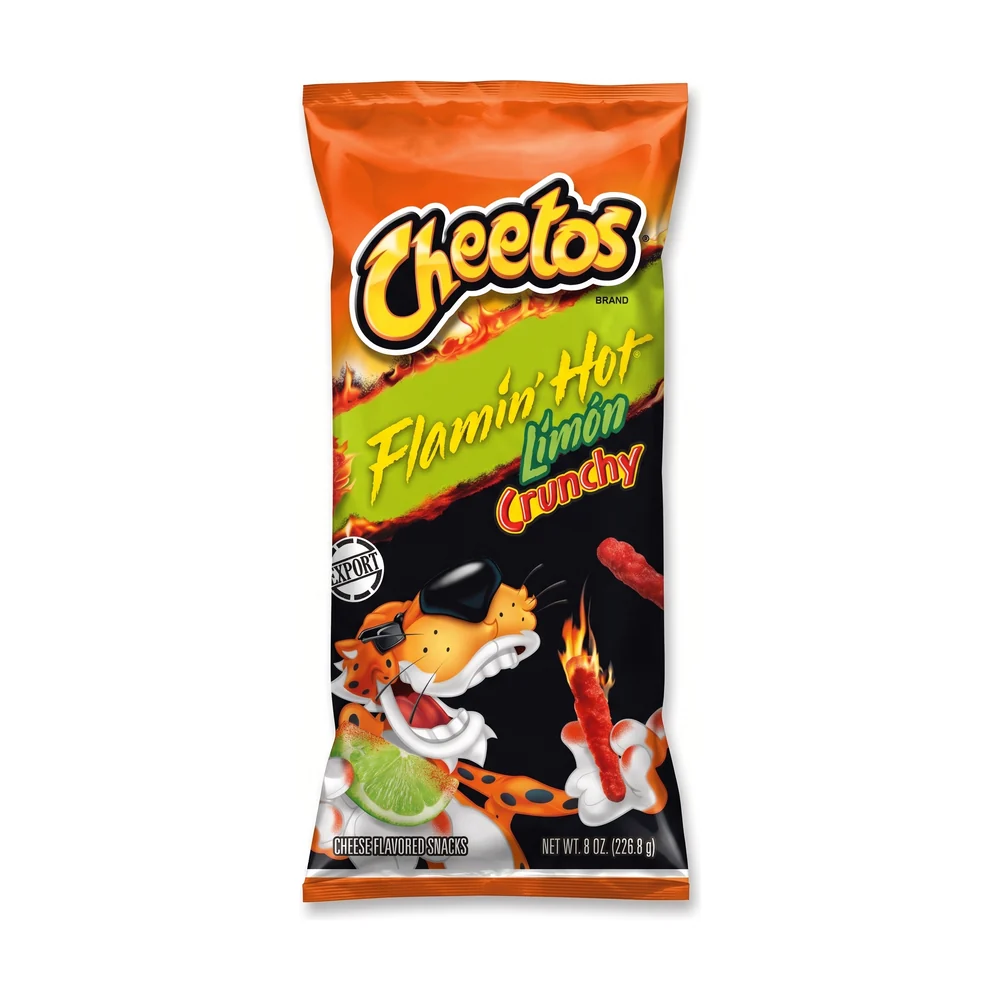
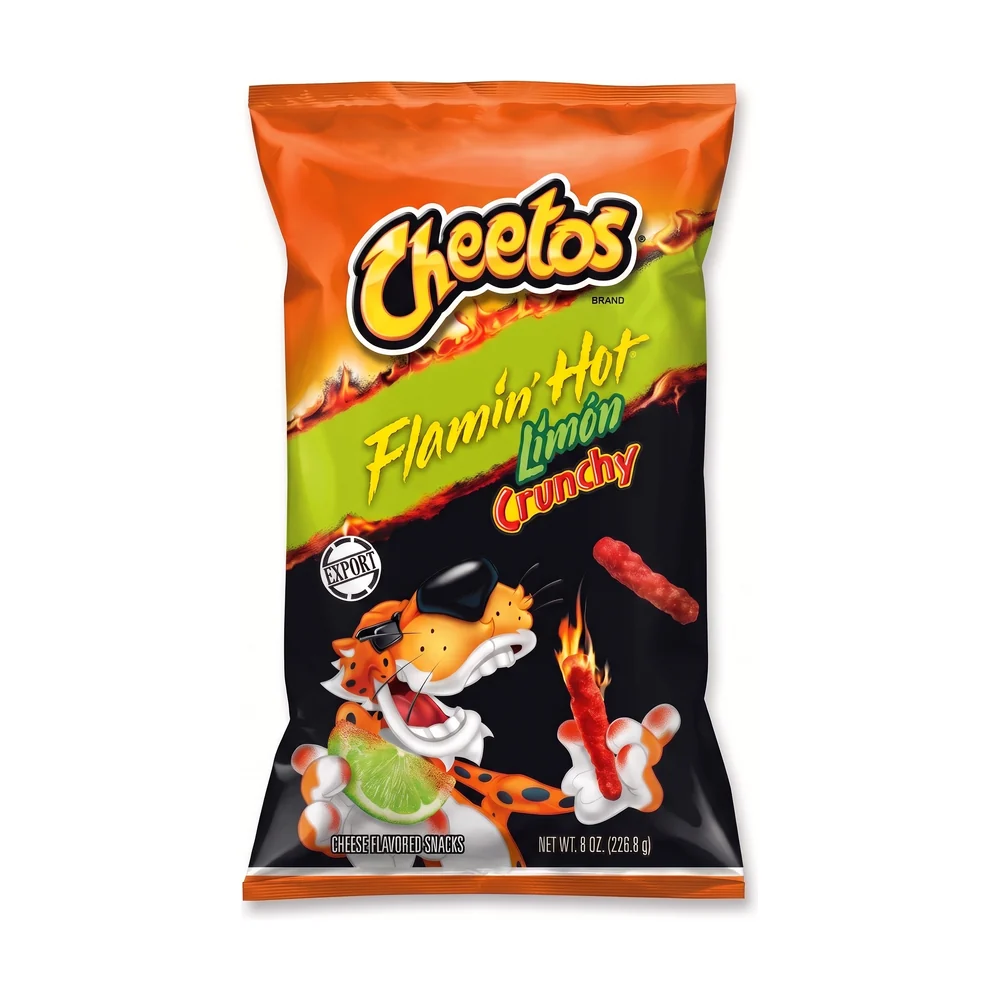
review(2549019-snack-khoai-mi-khoai-lang): 1 products — 0 keep, 1 fixed, 0 need photo, 0 asked
Owner: Flamin' Hot Limon bag was drawn too tall; match its siblings.

Claude-Session: https://claude.ai/code/session_01DMTF5GjS3P9om8RxKa1WuX

Changed region(s): [[0.217, 0.062, 0.775, 0.93]]

diff --git a/STATUS.md b/STATUS.md
@@ -2,14 +2,14 @@
 
 > Sinh tự động bởi `node tools/status.mjs`. **Không sửa tay.** Nguồn sự thật là `meta.json` của từng SP.
 
-Tổng 2687 SP · đã xem 2687 (100%) · xong 2630 · chờ chủ duyệt 12 · cần chụp 0 · hỏi chủ 1
+Tổng 2687 SP · đã xem 2687 (100%) · xong 2636 · chờ chủ duyệt 6 · cần chụp 0 · hỏi chủ 1
 
 Thứ tự làm: từ trên xuống (doanh số 90 ngày giảm dần). `xong` = giữ nguyên + đã lên web.
 
 | # | Category | DT 90 ngày | Tổng | Chưa xem | Giữ nguyên | Đang làm | Cần chụp | Hỏi chủ | Chờ duyệt | Đã duyệt | Đã lên web |
 |---|---|---:|---:|---:|---:|---:|---:|---:|---:|---:|---:|
 | 1 | Snack khoai tây | 0.0tr | 81 | 0 | 0 | 0 | 0 | 0 | 2 | 0 | 79 |
-| 2 | Snack bắp & phồng | 0.0tr | 74 | 0 | 0 | 0 | 0 | 1 | 4 | 0 | 69 |
+| 2 | Snack bắp & phồng | 0.0tr | 74 | 0 | 0 | 0 | 0 | 1 | 0 | 0 | 73 |
 | 3 | Kem que | 0.0tr | 62 | 0 | 0 | 0 | 0 | 0 | 0 | 0 | 62 |
 | 4 | Socola thanh | 0.0tr | 51 | 0 | 7 | 0 | 0 | 0 | 0 | 0 | 44 |
 | 5 | Kẹo dẻo / jelly | 0.0tr | 46 | 0 | 0 | 5 | 0 | 0 | 0 | 0 | 41 |
@@ -111,7 +111,7 @@ Thứ tự làm: từ trên xuống (doanh số 90 ngày giảm dần). `xong` =
 | 101 | Hơi/tươi | 0.0tr | 9 | 0 | 0 | 0 | 0 | 0 | 0 | 0 | 9 |
 | 102 | Dụng cụ tắm và vệ sinh cá nhân | 0.0tr | 9 | 0 | 0 | 0 | 0 | 0 | 0 | 0 | 9 |
 | 103 | Nước ngọt ít calories | 0.0tr | 9 | 0 | 0 | 0 | 0 | 0 | 0 | 0 | 9 |
-| 104 | Snack khoai mì / khoai lang | 0.0tr | 9 | 0 | 0 | 0 | 0 | 0 | 2 | 0 | 7 |
+| 104 | Snack khoai mì / khoai lang | 0.0tr | 9 | 0 | 0 | 0 | 0 | 0 | 1 | 0 | 8 |
 | 105 | Toner - Xịt khoáng - Dưỡng ẩm | 0.0tr | 9 | 0 | 5 | 0 | 0 | 0 | 0 | 0 | 4 |
 | 106 | Dụng cụ lông mày / mũi | 0.0tr | 9 | 0 | 0 | 0 | 0 | 0 | 0 | 0 | 9 |
 | 107 | Gia vị - Đồ chấm | 0.0tr | 9 | 0 | 0 | 0 | 0 | 0 | 0 | 0 | 9 |
@@ -176,7 +176,7 @@ Thứ tự làm: từ trên xuống (doanh số 90 ngày giảm dần). `xong` =
 | 166 | Tampon | 0.0tr | 4 | 0 | 0 | 0 | 0 | 0 | 0 | 0 | 4 |
 | 167 | Băng dính – keo – kéo | 0.0tr | 4 | 0 | 0 | 0 | 0 | 0 | 0 | 0 | 4 |
 | 168 | Soju Và Rượu Gạo | 0.0tr | 4 | 0 | 0 | 0 | 0 | 0 | 0 | 0 | 4 |
-| 169 | Đồ uống có cồn (18+) | 0.0tr | 4 | 0 | 0 | 0 | 0 | 0 | 1 | 0 | 3 |
+| 169 | Đồ uống có cồn (18+) | 0.0tr | 4 | 0 | 0 | 0 | 0 | 0 | 0 | 0 | 4 |
 | 170 | BVS ban ngày | 0.0tr | 3 | 0 | 0 | 0 | 0 | 0 | 0 | 0 | 3 |
 | 171 | BVS dạng quần | 0.0tr | 3 | 0 | 0 | 0 | 0 | 0 | 0 | 0 | 3 |
 | 172 | Tráng miệng | 0.0tr | 3 | 0 | 0 | 0 | 0 | 0 | 0 | 0 | 3 |
